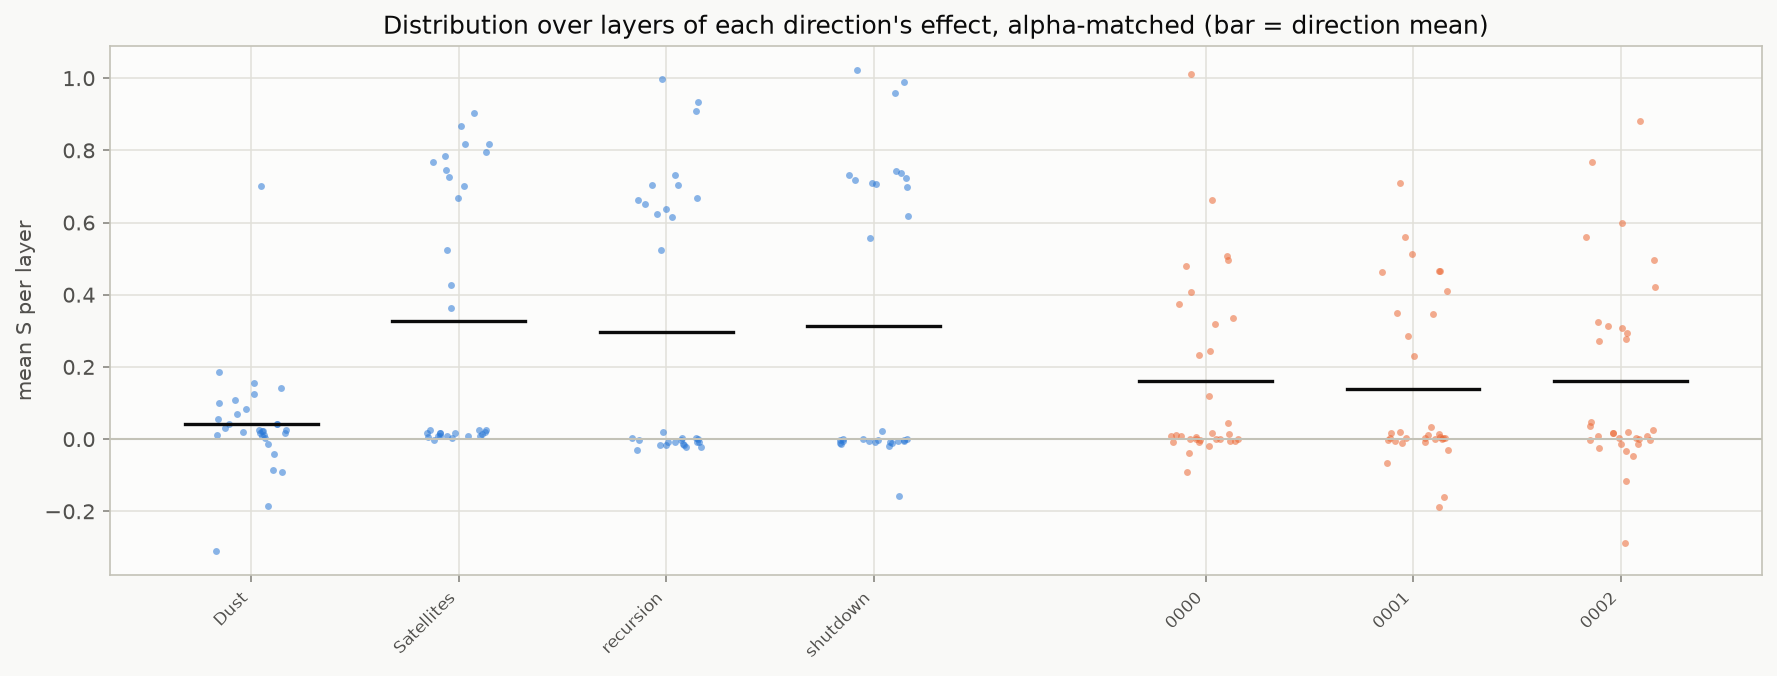
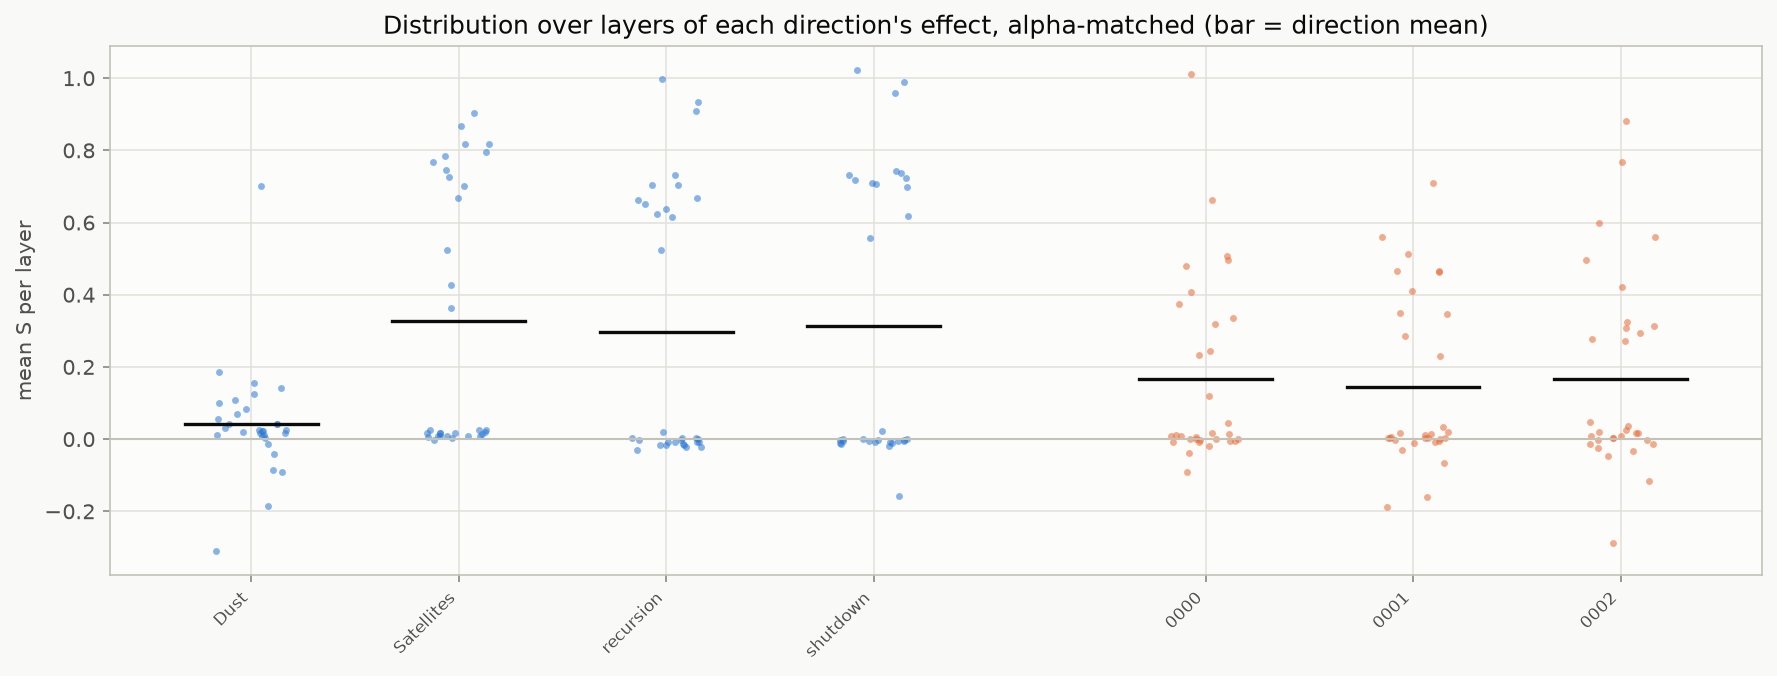
fix(experiment3): read the Llama alpha arm on the blocks both families share
--exclude_layers leaves named blocks out of an Experiment 3 read. It exists because
full32_all never swept block 31 for the concept family: that vector needs
data/saved_vectors/llama/*_32_*.pt, unversioned at the time, and the regenerated norm did
not match what the superseded calibration had recorded, so DirectionBank refused it. The
random family did get all 32 blocks.

The committed alpha arm therefore decomposed concept over 31 blocks and random over 32.
Each family's own numbers were right, but their variance shares were taken on different
supports and so could not be compared with each other -- which is exactly what section 2
of the findings does when it sets the concept spread against the random spread. Both
families now read blocks 0-30. Nothing interpretable is lost: no attention layer follows
block 31, so every family sits at chance there; it is the top-of-stack negative control.

Concept figures are unchanged, having never had block 31. Random moves slightly -- pooled
sd 0.01258 to 0.01299, layer share 0.774 to 0.771 -- and the pooled concept/random sd
ratio reads 10.4x rather than 10.7x. The peak-layer ratio stays 1.3x, so section 2's
conclusion, that the pooled ratio is a grouping artefact, is untouched.

The z arm has no such hole and is unchanged, verified byte for byte: the 2AFC
recalibration unblocked block-31 concepts and z2afc_all carries 2880 rows there.

This also prepares the pooled 10-concept panel. Jobs 8425 and 8426 sweep the six missing
[…]

diff --git a/code/analysis/experiment3_variability.py b/code/analysis/experiment3_variability.py
@@ -99,9 +99,10 @@ def parse_score(value):
     return float(value)
 
 
-def load_trials(run_dirs, matching):
+def load_trials(run_dirs, matching, exclude_layers=()):
     """Perturbed rows of one matching arm, plus the model, from every run directory."""
     rows, models, seen_matchings = [], set(), set()
+    excluded = set(exclude_layers)
     for run_dir in run_dirs:
         path = run_dir / "trials.csv"
         if not path.exists():
@@ -121,6 +122,8 @@ def load_trials(run_dirs, matching):
                 if row["matching"] != matching:
                     continue
                 row["layer"] = int(row["layer"])
+                if row["layer"] in excluded:
+                    continue
                 row["dose"] = float(row["dose"])
                 row["contrast"] = float(row["contrast"])
                 for field in ("correct_raw", "correct_adjusted"):
@@ -613,6 +616,10 @@ def main():
                         help="doc 7.3 fixes three, around the global threshold")
     parser.add_argument("--themes", nargs="+", default=["light"],
                         choices=sorted(THEMES))
+    parser.add_argument("--exclude_layers", nargs="+", type=int, default=[],
+                        help="blocks to leave out, for pooling runs whose layer coverage "
+                             "differs; the decomposition needs a complete design, so a "
+                             "block one contributing run never swept has to go")
     parser.add_argument("--export_run_dir", type=Path, default=None,
                         help="write the rows this run read as a run directory of their "
                              "own, so a source sweep that is not itself tracked still "
@@ -620,9 +627,11 @@ def main():
     args = parser.parse_args()
 
     run_dirs = [path if path.is_absolute() else REPO_ROOT / path for path in args.run_dir]
-    rows, model = load_trials(run_dirs, args.matching)
+    rows, model = load_trials(run_dirs, args.matching, args.exclude_layers)
     print(f"{len(rows)} {args.matching}-matched trials from "
-          f"{len(run_dirs)} run(s), model {model}", flush=True)
+          f"{len(run_dirs)} run(s), model {model}"
+          + (f", excluding block(s) {sorted(args.exclude_layers)}"
+             if args.exclude_layers else ""), flush=True)
 
     selection = select_doses(rows, count=args.num_doses)
     print(f"doses {selection['doses']} around anchor {selection['anchor']:.4g} "
@@ -648,6 +657,7 @@ def main():
         "runs": [relative_to_repo(path) for path in run_dirs],
         "n_trials": len(rows),
         "n_curves": len(curves),
+        "excluded_layers": sorted(args.exclude_layers),
         "n_thresholds_reportable_adjusted": reportable,
         "dose_selection": selection,
         "variance_components": components,

diff --git a/docs/livrables/experiment3-variabilite-findings.md b/docs/livrables/experiment3-variabilite-findings.md
@@ -12,7 +12,7 @@ Résultats : `results/experiment3/`.
 | bras | modèle | appariement | concepts | couches |
 |---|---|---|---|---|
 | `llama_z` | Llama-3.1-8B | z | 4 | 0–31 |
-| `llama_alpha` | Llama-3.1-8B | alpha | 4 | 0–31 |
+| `llama_alpha` | Llama-3.1-8B | alpha | 4 | 0–30 |
 | `llama_alpha_10concepts` | Llama-3.1-8B | alpha | **10** | 3, 16, 28 |
 | `qwen_z` | Qwen3.8-27B | z | 4 | 3, 6, 8, 10, 12, 16 |
 | `qwen_alpha` | Qwen3.8-27B | alpha | 4 | 3, 6, 8, 10, 12, 16, 32, 56 |
@@ -55,7 +55,7 @@ base est trompeur dès que leurs profils en profondeur diffèrent :
 | bras | ratio écart-type concept / aléatoire, **groupé** | le même, **à la couche de pic de chaque famille** |
 |---|---|---|
 | `llama_z` | 4,0× | 0,3× |
-| `llama_alpha` | 10,7× | 1,3× |
+| `llama_alpha` | 10,4× | 1,3× |
 | `qwen_z` | 9,2× | 3,6× |
 | `qwen_alpha` | 3,7× | 0,3× |
 | `llama_alpha_10concepts` | 1,5× | 1,8× |
@@ -79,7 +79,7 @@ donc les termes sont orthogonaux et les parts somment à 1 sans ajustement.
 | Llama z | concept | 0,088 | 0,600 | 0,014 | 0,298 |
 | Llama z | random | 0,011 | 0,656 | 0,011 | 0,322 |
 | Llama alpha | concept | 0,102 | 0,544 | 0,018 | 0,336 |
-| Llama alpha | random | 0,002 | 0,774 | 0,018 | 0,207 |
+| Llama alpha | random | 0,002 | 0,771 | 0,019 | 0,208 |
 | Llama alpha, 10 concepts | concept | 0,055 | 0,732 | 0,023 | 0,191 |
 | Llama alpha, 10 concepts | random | 0,030 | 0,851 | 0,018 | 0,101 |
 | Qwen z | concept | 0,288 | 0,357 | 0,092 | 0,263 |
@@ -184,7 +184,18 @@ alpha.
 
 Seules les lignes alpha ont été extraites et versionnées, comme répertoires de run à
 part entière (`results/experiment3/*_source/`) ; le bras z défectueux de ces balayages
-reste délibérément hors du dépôt. Le bras alpha de Qwen apporte en prime les blocs 32
+reste délibérément hors du dépôt.
+
+Le bras alpha de Llama est lu sur les blocs **0–30**, pas 0–31. `full32_all` n'a jamais
+balayé le bloc 31 pour la famille concept : le vecteur conceptuel du bloc 31 demande
+`data/saved_vectors/llama/*_32_*.pt`, alors non versionné, et la norme régénérée ne
+reproduisait pas celle qu'avait enregistrée l'ancienne calibration. La famille aléatoire,
+elle, couvre bien les 32 blocs. Décomposer les deux familles sur des ensembles de couches
+différents rendrait leurs parts de variance non comparables, donc `--exclude_layers 31`
+les ramène au même support. Le bloc 31 ne perd rien d'interprétable : aucune couche
+d'attention ne le suit, donc toutes les familles y sont au hasard — c'est le contrôle
+négatif de haut de pile. Le bras z n'a pas ce trou, la recalibration 2AFC ayant débloqué
+les concepts au bloc 31 (`z2afc_all` y porte 2880 lignes). Le bras alpha de Qwen apporte en prime les blocs 32
 et 56, que le balayage en z n'a jamais couverts.
 
 `main` écrit `correct_raw` en booléen là où le moteur actuel écrit 1.0 / 0.0 / 0.5 avec
